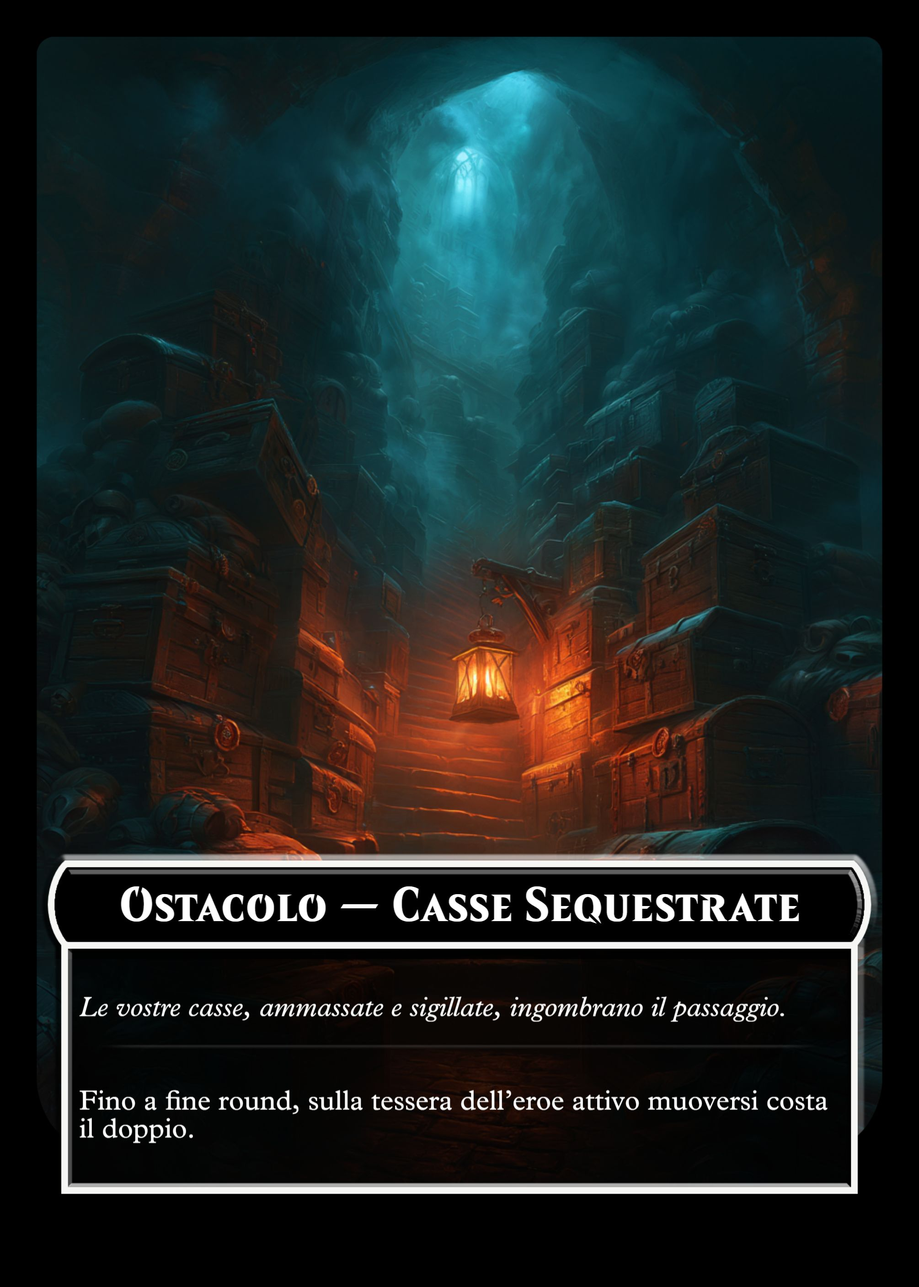
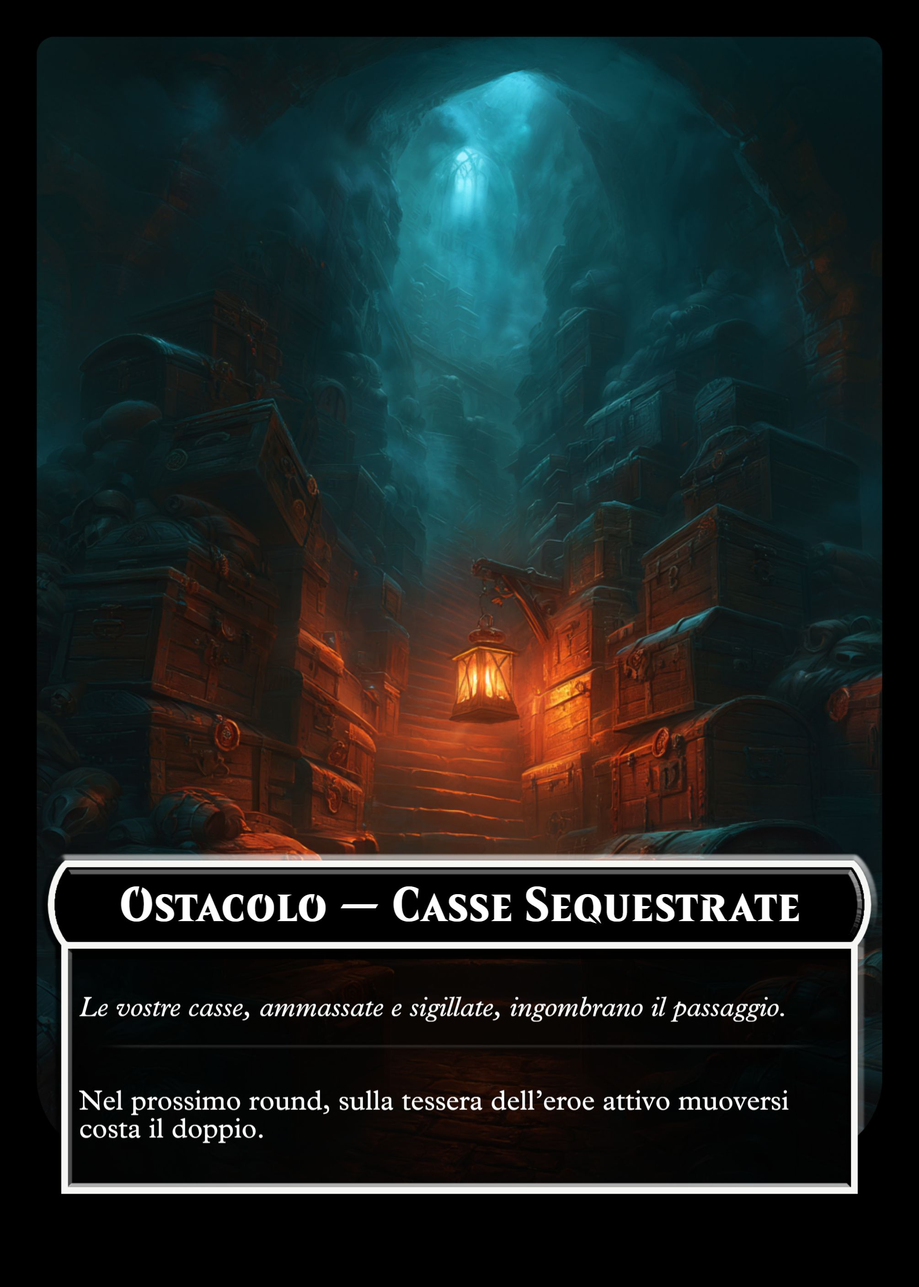
fix: le carte Ostacolo valgono davvero — «costa il doppio» e «-1 al Movimento» nel round dopo
La Minaccia si pesca dopo la fase Eroi: «fino a fine round» scadeva prima che
qualcuno si muovesse, e nessun codice leggeva l'effetto. Ora vale per la fase
Eroi del round successivo (testo delle 26 carte e JPG rigenerati).

Claude-Session: https://claude.ai/code/session_01E3wCErKnfp5djVLEH6umwX

Changed region(s): [[0.0925, 0.8348, 0.8945, 0.8966]]

diff --git a/scripts/cardconjurer/cards-data.js b/scripts/cardconjurer/cards-data.js
@@ -188,10 +188,10 @@ const MINACCE = [
     effect: 'Ruggero è vivo. Rivelate una tessera coperta adiacente a quella di un eroe (la scelgono i giocatori).' },
   { art: 'artworks/Cera che cola.png', title: 'Cera che Cola', tipo: 'Ostacolo',
     flavor: 'Dalle travi piove cera bollente, filo dopo filo.',
-    effect: 'Fino a fine round, sulla tessera dell’eroe attivo muoversi costa il doppio.' },
+    effect: 'Nel prossimo round, sulla tessera dell’eroe attivo muoversi costa il doppio.' },
   { art: 'artworks/Corrente gelida.png', title: 'Corrente Gelida', tipo: 'Ostacolo',
     flavor: 'Una corrente d’acqua nera risale i condotti e vi entra nelle ossa.',
-    effect: 'Fino a fine round ogni eroe ha -1 al Movimento (minimo 1).' },
+    effect: 'Nel prossimo round ogni eroe ha -1 al Movimento (minimo 1).' },
   { art: 'artworks/Sussurri.png', title: 'Sussurri', tipo: 'Insidia',
     flavor: 'Qualcuno pronuncia il vostro nome. Con la vostra voce.',
     effect: 'L’eroe con meno NERVI (a pari merito: sceglie il gruppo) prova NERVI (Media): se fallisce subisce 1 danno dal terrore.' },
@@ -642,7 +642,7 @@ const EP2_MINACCE = [
     effect: 'Rivelate una tessera coperta adiacente a quella di un eroe (la scelgono i giocatori).' },
   { art: 'artworks/Scorie che franano.png', title: 'Scorie che Franano', tipo: 'Ostacolo',
     flavor: 'La collina nera si muove. Meglio non esserci sotto.',
-    effect: 'Fino a fine round, sulla tessera dell’eroe attivo muoversi costa il doppio.' },
+    effect: 'Nel prossimo round, sulla tessera dell’eroe attivo muoversi costa il doppio.' },
   { art: 'artworks/Il ronzio nei denti.png', title: 'Il Ronzio nei Denti', tipo: 'Insidia',
     flavor: 'Non lo sentite con le orecchie. Lo sentite con le otturazioni.',
     effect: 'L’eroe con meno NERVI (a pari merito: sceglie il gruppo) prova NERVI (Media): se fallisce subisce 1 danno dal dolore.' },
@@ -889,7 +889,7 @@ const EP3_MINACCE = [
     effect: 'Rivelate una tessera coperta adiacente a quella di un eroe (la scelgono i giocatori).' },
   { art: 'artworks/L’acqua sale.png', title: 'L’Acqua Sale', tipo: 'Ostacolo',
     flavor: 'Nessuna pioggia, nessuna chiusa. Eppure sale — come un respiro preso.',
-    effect: 'Fino a fine round, sulla tessera dell’eroe attivo muoversi costa il doppio.' },
+    effect: 'Nel prossimo round, sulla tessera dell’eroe attivo muoversi costa il doppio.' },
   { art: 'artworks/Il canto nelle orecchie.png', title: 'Il Canto nelle Orecchie', tipo: 'Insidia',
     flavor: 'La melodia vi entra da un orecchio. Non esce dall’altro.',
     effect: 'L’eroe con meno NERVI (a pari merito: sceglie il gruppo) prova NERVI (Media): se fallisce subisce 1 danno dal dolore.' },
@@ -1130,7 +1130,7 @@ const EP4_MINACCE = [
     effect: 'Rivelate una tessera coperta adiacente a quella di un eroe (la scelgono i giocatori).' },
   { art: 'artworks/Le funi calate.png', title: 'Le Funi Calate', tipo: 'Ostacolo',
     flavor: 'Un cambio di scena cala un bosco di funi dove prima c’era un corridoio.',
-    effect: 'Fino a fine round, sulla tessera dell’eroe attivo muoversi costa il doppio.' },
+    effect: 'Nel prossimo round, sulla tessera dell’eroe attivo muoversi costa il doppio.' },
   { art: 'artworks/L’acuto.png', title: 'L’Acuto', tipo: 'Insidia',
     flavor: 'Un acuto di prova trafigge le assi. I pannelli lo bevono. Voi no.',
     effect: 'L’eroe con meno NERVI (a pari merito: sceglie il gruppo) prova NERVI (Media): se fallisce subisce 1 danno dal dolore.' },
@@ -1368,7 +1368,7 @@ const EP5_MINACCE = [
     effect: 'Rivelate una tessera coperta adiacente a quella di un eroe (la scelgono i giocatori).' },
   { art: 'artworks/Le impalcature.png', title: 'Le Impalcature', tipo: 'Ostacolo',
     flavor: 'Il cantiere invade il passaggio: assi, corde, pali. Ordinatissimi. Ovunque.',
-    effect: 'Fino a fine round, sulla tessera dell’eroe attivo muoversi costa il doppio.' },
+    effect: 'Nel prossimo round, sulla tessera dell’eroe attivo muoversi costa il doppio.' },
   { art: 'artworks/La nota bassa.png', title: 'La Nota Bassa', tipo: 'Insidia',
     flavor: 'Sotto la soglia dell’udito, sopra la soglia del cuore. Fedele lo sapeva.',
     effect: 'L’eroe con meno NERVI (a pari merito: sceglie il gruppo) prova NERVI (Media): se fallisce subisce 1 danno.' },
@@ -1605,7 +1605,7 @@ const EP6_MINACCE = [
     effect: 'Rivelate una tessera coperta adiacente a quella di un eroe (la scelgono i giocatori).' },
   { art: 'artworks/L’acqua sale.png', title: 'L’Acqua alle Ginocchia', tipo: 'Ostacolo',
     flavor: 'La sizigia reclama le gallerie basse. Si cammina come nei sogni cattivi.',
-    effect: 'Fino a fine round, sulla tessera dell’eroe attivo muoversi costa il doppio.' },
+    effect: 'Nel prossimo round, sulla tessera dell’eroe attivo muoversi costa il doppio.' },
   { art: 'artworks/Il canto nelle orecchie.png', title: 'Il Richiamo', tipo: 'Insidia',
     flavor: 'Il coro vi conosce per nome, adesso. E chiama chi è più avanti degli altri.',
     effect: 'L’eroe più avanzato prova NERVI (Media): se fallisce, 1 danno.' },
@@ -1840,7 +1840,7 @@ const EP7_MINACCE = [
     effect: 'Rivelate una tessera coperta adiacente a quella di un eroe (la scelgono i giocatori).' },
   { art: 'artworks/I sacchi franati.png', title: 'I Sacchi Franati', tipo: 'Ostacolo',
     flavor: 'Una pila cede — piano, senza fragore: la calce inghiotte anche il proprio crollo.',
-    effect: 'Fino a fine round, sulla tessera dell’eroe attivo muoversi costa il doppio.' },
+    effect: 'Nel prossimo round, sulla tessera dell’eroe attivo muoversi costa il doppio.' },
   { art: 'artworks/Il piombo dal buio.png', title: 'Il Piombo dal Buio', tipo: 'Danno',
     flavor: 'Un filo a piombo lasciato cadere da tre piani non fa quasi rumore. Quasi.',
     effect: 'L’eroe più avanzato subisce 1 danno (nessuna prova: il buio ha mirato bene).' },
@@ -2074,7 +2074,7 @@ const EP8_MINACCE = [
     effect: 'Rivelate una tessera coperta adiacente a quella di un eroe (la scelgono i giocatori).' },
   { art: 'artworks/Le casse rovesciate.png', title: 'Le Casse Rovesciate', tipo: 'Ostacolo',
     flavor: 'Una pila cede senza fragore: il carbone attutisce anche i crolli.',
-    effect: 'Fino a fine round, sulla tessera dell’eroe attivo muoversi costa il doppio.' },
+    effect: 'Nel prossimo round, sulla tessera dell’eroe attivo muoversi costa il doppio.' },
 ].map((m) => ({
   art: m.art,
   title: `${m.tipo} — ${m.title}`,
@@ -2297,7 +2297,7 @@ const EP9_MINACCE = [
     effect: 'Rivelate una tessera coperta adiacente a quella di un eroe (la scelgono i giocatori).' },
   { art: 'artworks/Il ponte levato.png', title: 'Il Ponte Levato', tipo: 'Ostacolo',
     flavor: 'Qualcuno ha alzato il ponticello di servizio: si passa, ma lenti.',
-    effect: 'Fino a fine round, sulla tessera dell’eroe attivo muoversi costa il doppio.' },
+    effect: 'Nel prossimo round, sulla tessera dell’eroe attivo muoversi costa il doppio.' },
   { art: 'artworks/Il coltello dal buio.png', title: 'La Lama Educata', tipo: 'Insidia',
     flavor: '«Con permesso», dice il buio. E colpisce chi sta più vicino al teste.',
     effect: 'L’eroe adiacente a Riva (a pari merito: sceglie il gruppo) subisce 1 danno — è il prezzo di fare da scudo.' },
@@ -2522,7 +2522,7 @@ const EP10_MINACCE = [
     effect: 'Rivelate una tessera coperta adiacente a quella di un eroe (la scelgono i giocatori).' },
   { art: 'artworks/Calcinacci sul passo.png', title: 'Calcinacci sul Passo', tipo: 'Ostacolo',
     flavor: 'Detriti franati sbarrano il corridoio: si passa, ma piano.',
-    effect: 'Fino a fine round, sulla tessera dell’eroe attivo muoversi costa il doppio.' },
+    effect: 'Nel prossimo round, sulla tessera dell’eroe attivo muoversi costa il doppio.' },
   { art: 'artworks/Un mattone dallalto.png', title: 'Un Mattone dall’Alto', tipo: 'Danno',
     flavor: 'La demolizione fa piovere macerie: un mattone si stacca proprio sopra di voi.',
     effect: 'Un eroe a caso (chi arbitra tira) subisce 1 danno.' },
@@ -2750,7 +2750,7 @@ const EP11_MINACCE = [
     effect: 'Rivelate una tessera coperta adiacente a quella di un eroe (la scelgono i giocatori).' },
   { art: 'artworks/Labbaino sbarrato.png', title: 'L’Abbaino Sbarrato', tipo: 'Ostacolo',
     flavor: 'Una botola incrostata di ghiaccio blocca il passaggio corto: si gira, ma piano.',
-    effect: 'Fino a fine round, sulla tessera dell’eroe attivo muoversi costa il doppio.' },
+    effect: 'Nel prossimo round, sulla tessera dell’eroe attivo muoversi costa il doppio.' },
   { art: 'artworks/Una tegola in testa.png', title: 'Una Tegola in Testa', tipo: 'Danno',
     flavor: 'Il vento stacca un coppo da più in alto e lo scaglia dritto sul gruppo.',
     effect: 'Un eroe a caso (chi arbitra tira) subisce 1 danno.' },
@@ -2978,7 +2978,7 @@ const EP12_MINACCE = [
     effect: 'Rivelate una tessera coperta adiacente a quella di un eroe (la scelgono i giocatori).' },
   { art: 'artworks/La chiatta di traverso.png', title: 'La Chiatta di Traverso', tipo: 'Ostacolo',
     flavor: 'Una chiatta incagliata blocca il canale: si passa, ma piano.',
-    effect: 'Fino a fine round, sulla tessera dell’eroe attivo muoversi costa il doppio.' },
+    effect: 'Nel prossimo round, sulla tessera dell’eroe attivo muoversi costa il doppio.' },
   { art: 'artworks/Un colpo di gaffa.png', title: 'Un Colpo di Gaffa', tipo: 'Danno',
     flavor: 'Un bravo vi allunga una gaffa dal buio, mirando alla testa.',
     effect: 'Un eroe a caso (chi arbitra tira) subisce 1 danno.' },
@@ -3205,7 +3205,7 @@ const EP13_MINACCE = [
     effect: 'Rivelate una tessera coperta adiacente a quella di un eroe (la scelgono i giocatori).' },
   { art: 'artworks/Balle di stracci sul passo.png', title: 'Balle di Stracci sul Passo', tipo: 'Ostacolo',
     flavor: 'Balle di stracci rovesciate ingombrano il corridoio: si passa, ma piano.',
-    effect: 'Fino a fine round, sulla tessera dell’eroe attivo muoversi costa il doppio.' },
+    effect: 'Nel prossimo round, sulla tessera dell’eroe attivo muoversi costa il doppio.' },
   { art: 'artworks/Una trave in fiamme.png', title: 'Una Trave in Fiamme', tipo: 'Danno',
     flavor: 'Una trave accesa si stacca dal soffitto e piomba sul gruppo.',
     effect: 'Un eroe a caso (chi arbitra tira) subisce 1 danno.' },
@@ -3434,7 +3434,7 @@ const EP14_MINACCE = [
     effect: 'Rivelate una tessera coperta adiacente a quella di un eroe (la scelgono i giocatori).' },
   { art: 'artworks/Comignoli sul passo.png', title: 'Comignoli sul Passo', tipo: 'Ostacolo',
     flavor: 'Una selva di comignoli e antenne intralcia il passaggio: si passa, ma piano.',
-    effect: 'Fino a fine round, sulla tessera dell’eroe attivo muoversi costa il doppio.' },
+    effect: 'Nel prossimo round, sulla tessera dell’eroe attivo muoversi costa il doppio.' },
   { art: 'artworks/Il cornicione che cede.png', title: 'Il Cornicione che Cede', tipo: 'Danno',
     flavor: 'Un pezzo di cornicione si stacca sotto il gruppo e porta giù chi c’è sopra.',
     effect: 'Un eroe a caso (chi arbitra tira) subisce 1 danno.' },
@@ -3635,7 +3635,7 @@ const EP15_MINACCE = [
     effect: 'L’eroe più avanzato prova VIGORE (Media): se fallisce, perde il movimento extra questo turno.' },
   { art: 'artworks/La porta che si chiude.png', title: 'La Porta che si Chiude', tipo: 'Insidia',
     flavor: 'Una porta si chiude piano alle vostre spalle: siete dove vogliono loro.',
-    effect: 'Fino a fine round, sulla tessera dell’eroe attivo muoversi costa il doppio.' },
+    effect: 'Nel prossimo round, sulla tessera dell’eroe attivo muoversi costa il doppio.' },
   { art: 'artworks/Il faro della ronda.png', title: 'Il Faro della Ronda', tipo: 'Insidia',
     flavor: 'Un fascio di luce spazza la stanza dal cortile: la ronda della Gendarmeria.',
     effect: 'Aggiungete 1 segnalino Canto (il Sigillo si avvicina). Ogni eroe prova NERVI (Facile) o si acquatta: 1 sola azione al prossimo turno.' },
@@ -3662,7 +3662,7 @@ const EP15_MINACCE = [
     effect: 'Rivelate una tessera coperta adiacente a quella di un eroe (la scelgono i giocatori).' },
   { art: 'artworks/Mobili spostati.png', title: 'Mobili Spostati', tipo: 'Ostacolo',
     flavor: 'La scena è stata rifatta di fresco: i mobili non sono dove ve li aspettate.',
-    effect: 'Fino a fine round, sulla tessera dell’eroe attivo muoversi costa il doppio.' },
+    effect: 'Nel prossimo round, sulla tessera dell’eroe attivo muoversi costa il doppio.' },
   { art: 'artworks/Un colpo al buio.png', title: 'Un Colpo al Buio', tipo: 'Danno',
     flavor: 'Un Apparecchiatore, colto sul fatto, sferra un colpo disperato nel buio.',
     effect: 'Un eroe a caso (chi arbitra tira) subisce 1 danno.' },
@@ -3861,7 +3861,7 @@ const EP16_MINACCE = [
     effect: 'L’eroe attivo prova VIGORE (Media): se fallisce, 1 danno (una scheggia).' },
   { art: 'artworks/La porta a vetri.png', title: 'La Porta a Vetri', tipo: 'Insidia',
     flavor: 'Una porta-finestra a vetri: attraversarla di corsa è un rischio.',
-    effect: 'Fino a fine round, sulla tessera dell’eroe attivo muoversi costa il doppio.' },
+    effect: 'Nel prossimo round, sulla tessera dell’eroe attivo muoversi costa il doppio.' },
   { art: 'artworks/Il buio del giardino.png', title: 'Il Buio del Giardino', tipo: 'Insidia',
     flavor: 'Fuori dalle finestre illuminate, il giardino è nero come pece.',
     effect: 'Ogni eroe prova NERVI (Facile): chi fallisce non può documentare né aiutare questo round (cerca la strada).' },
@@ -3888,7 +3888,7 @@ const EP16_MINACCE = [
     effect: 'Rivelate una tessera coperta adiacente a quella di un eroe (la scelgono i giocatori).' },
   { art: 'artworks/Tavoli del banchetto.png', title: 'Tavoli del Banchetto', tipo: 'Ostacolo',
     flavor: 'Tavoli imbanditi per le nozze ingombrano il salone: si passa, ma piano.',
-    effect: 'Fino a fine round, sulla tessera dell’eroe attivo muoversi costa il doppio.' },
+    effect: 'Nel prossimo round, sulla tessera dell’eroe attivo muoversi costa il doppio.' },
   { art: 'artworks/Un candeliere in faccia.png', title: 'Un Candeliere in Faccia', tipo: 'Danno',
     flavor: 'Un complice, disperato, afferra un candeliere e lo scaglia.',
     effect: 'Un eroe a caso (chi arbitra tira) subisce 1 danno.' },
@@ -4091,7 +4091,7 @@ const EP17_MINACCE = [
     effect: 'Ogni eroe prova NERVI (Facile), -1 morale: chi fallisce non può aiutare gli altri questo round.' },
   { art: 'artworks/La porta blindata.png', title: 'La Porta Blindata', tipo: 'Insidia',
     flavor: 'Una porta di ferro sbarra il corridoio delle celle.',
-    effect: 'Fino a fine round, sulla tessera dell’eroe attivo muoversi costa il doppio.' },
+    effect: 'Nel prossimo round, sulla tessera dell’eroe attivo muoversi costa il doppio.' },
   { art: 'artworks/Il corridoio delle celle.png', title: 'Il Corridoio delle Celle', tipo: 'Insidia',
     flavor: 'Grida soffocate dietro le porte: qual è il decano? Quale una trappola?',
     effect: 'L’eroe più avanzato prova NERVI (Media), -1 morale: se fallisce, 1 danno (una trappola).' },
@@ -4121,7 +4121,7 @@ const EP17_MINACCE = [
     effect: 'Rivelate una tessera coperta adiacente a quella di un eroe (la scelgono i giocatori).' },
   { art: 'artworks/Casse di custodia.png', title: 'Casse di Custodia', tipo: 'Ostacolo',
     flavor: 'Casse di documenti «in custodia» ingombrano il passaggio: si passa, ma piano.',
-    effect: 'Fino a fine round, sulla tessera dell’eroe attivo muoversi costa il doppio.' },
+    effect: 'Nel prossimo round, sulla tessera dell’eroe attivo muoversi costa il doppio.' },
   { art: 'artworks/Un colpo dalla Guardia.png', title: 'Un Colpo dalla Guardia', tipo: 'Danno',
     flavor: 'Un uomo di fiducia del Notaio colpisce con la freddezza di chi archivia.',
     effect: 'Un eroe a caso (chi arbitra tira) subisce 1 danno.' },
@@ -4317,7 +4317,7 @@ const EP18_MINACCE = [
     effect: 'L’eroe attivo prova NERVI (Media): se fallisce, 1 sola azione al prossimo turno (perde l’orientamento nel buio).' },
   { art: 'artworks/La porta che si chiude.png', title: 'La Porta che si Chiude', tipo: 'Insidia',
     flavor: 'Una porta si serra da sola davanti a voi: il Palazzo obbedisce al suo padrone.',
-    effect: 'Fino a fine round, sulla tessera dell’eroe attivo muoversi costa il doppio.' },
+    effect: 'Nel prossimo round, sulla tessera dell’eroe attivo muoversi costa il doppio.' },
   { art: 'artworks/Il passaggio che non c’è più.png', title: 'Il Passaggio che Non C’è Più', tipo: 'Insidia',
     flavor: 'La scorciatoia che credevate di conoscere è murata, o non è mai esistita.',
     effect: 'L’eroe più avanzato prova NERVI (Media): se fallisce, torna indietro di una tessera (si è perso).' },
@@ -4350,7 +4350,7 @@ const EP18_MINACCE = [
     effect: 'Rivelate una tessera coperta adiacente a quella di un eroe (la scelgono i giocatori).' },
   { art: 'artworks/Mobili rovesciati.png', title: 'Mobili Rovesciati', tipo: 'Ostacolo',
     flavor: 'Nella fuga, mobili rovesciati ingombrano il corridoio: si passa, ma piano.',
-    effect: 'Fino a fine round, sulla tessera dell’eroe attivo muoversi costa il doppio.' },
+    effect: 'Nel prossimo round, sulla tessera dell’eroe attivo muoversi costa il doppio.' },
   { art: 'artworks/Un manganello nel buio.png', title: 'Un Manganello nel Buio', tipo: 'Danno',
     flavor: 'Un gendarme, convinto di fare il suo dovere, mena un colpo al buio.',
     effect: 'Un eroe a caso (chi arbitra tira) subisce 1 danno.' },
@@ -4546,7 +4546,7 @@ const EP19_MINACCE = [
     effect: 'L’eroe più avanzato prova VIGORE (Media): se fallisce, 1 danno (sepolto di carte).' },
   { art: 'artworks/La porta a tempo.png', title: 'La Porta a Tempo', tipo: 'Insidia',
     flavor: 'Una porta di sicurezza si chiude con un ticchettio: pochi secondi.',
-    effect: 'Fino a fine round, sulla tessera dell’eroe attivo muoversi costa il doppio.' },
+    effect: 'Nel prossimo round, sulla tessera dell’eroe attivo muoversi costa il doppio.' },
   { art: 'artworks/Il faldone sbagliato.png', title: 'Il Faldone Sbagliato', tipo: 'Insidia',
     flavor: 'Migliaia di faldoni identici: qual è il Fascicolo del 1741?',
     effect: 'L’eroe attivo prova NERVI (Media): se fallisce, 1 sola azione al prossimo turno (perde tempo tra le carte).' },
@@ -4579,7 +4579,7 @@ const EP19_MINACCE = [
     effect: 'Rivelate una tessera coperta adiacente a quella di un eroe (la scelgono i giocatori).' },
   { art: 'artworks/Casse sequestrate.png', title: 'Casse Sequestrate', tipo: 'Ostacolo',
     flavor: 'Le vostre casse, ammassate e sigillate, ingombrano il passaggio.',
-    effect: 'Fino a fine round, sulla tessera dell’eroe attivo muoversi costa il doppio.' },
+    effect: 'Nel prossimo round, sulla tessera dell’eroe attivo muoversi costa il doppio.' },
   { art: 'artworks/Un colpo di manganello.png', title: 'Un Colpo di Manganello', tipo: 'Danno',
     flavor: 'Un gendarme, convinto di fare il suo dovere, mena un colpo.',
     effect: 'Un eroe a caso (chi arbitra tira) subisce 1 danno.' },
@@ -4805,7 +4805,7 @@ const EP20_MINACCE = [
     effect: 'Il controcanto avanza di 1 riga in più questo round (la città canta con voi). Serve la Mappa Acustica.' },
   { art: 'artworks/Detriti nella corrente.png', title: 'Detriti nella Corrente', tipo: 'Ostacolo',
     flavor: 'Relitti e ossa trascinati dalla marea ingombrano il passaggio.',
-    effect: 'Fino a fine round, sulla tessera dell’eroe attivo muoversi costa il doppio.' },
+    effect: 'Nel prossimo round, sulla tessera dell’eroe attivo muoversi costa il doppio.' },
   { art: 'artworks/La pietra che crolla.png', title: 'La Pietra che Crolla', tipo: 'Danno',
     flavor: 'Un blocco di volta cede al tremito del dio e piomba giù.',
     effect: 'Un eroe a caso (chi arbitra tira) subisce 1 danno.' },

diff --git a/webapp/public/motore/stat.js b/webapp/public/motore/stat.js
@@ -64,9 +64,27 @@ export const nemStat = (g, nome) => {
 // l'esplorazione delle caselle, la plancia dell'arbitro, il telefono di chi
 // gioca — deve leggerne uno.
 export const movimento = (g, nm) => {
-  const base = nm.includes('NINO') ? 4 : 3;
+  let m = nm.includes('NINO') ? 4 : 3;
   const p = g.sp && g.sp.passo;
-  return (p && p.chi === nm && p.round === g.sp.round) ? base + 3 : base;
+  if (p && p.chi === nm && p.round === g.sp.round) m += 3;
+  if (ostacolo(g).meno1) m = Math.max(1, m - 1);
+  return m;
+};
+
+// OSTACOLO. Le carte Minaccia si pescano dopo la fase Eroi: «fino a fine
+// round» scadeva prima che qualcuno si muovesse. La carta ora vale per il
+// ROUND DOPO (`sp.ostacoli.round`), cioe' per la prossima fase Eroi.
+//   doppio: sulla tessera dove l'eroe attivo inizia il movimento ogni passo
+//           costa 2 (anche quello che la lascia);
+//   meno1:  -1 al Movimento di tutti (minimo 1).
+export const ostacolo = (g) => {
+  const o = g.sp && g.sp.ostacoli;
+  return (o && o.round === g.sp.round) ? o : {};
+};
+export const costoPasso = (g, nm) => {
+  if (!ostacolo(g).doppio) return null;
+  const t = g.sp.eroiPos[nm].t;
+  return (da) => (da.t === t ? 2 : 1);
 };
 
 export function fascia(g, taglia) {
@@ -142,7 +160,7 @@ export function raggEroe(g, nm) {
   const sp = g.sp;
   if (sp.fase !== 'eroi' || azioneSpesa(g, nm, 'muovere') || !azioniRestano(g, nm)) return {};
   const start = sp.eroiPos[nm];
-  const info = esploraMosse(g, start, movimento(g, nm), occupati(g, `E:${nm}`, true, true));  // solo nemici murano (alleati e PNG scortati attraversabili)
+  const info = esploraMosse(g, start, movimento(g, nm), occupati(g, `E:${nm}`, true, true), costoPasso(g, nm));  // solo nemici murano (alleati e PNG scortati attraversabili)
   const tuttiOcc = occupati(g, `E:${nm}`, false);
   const out = {};
   for (const [k, v] of Object.entries(info)) { if (v.dist === 0 || tuttiOcc.has(k)) continue; out[k] = v; }

diff --git a/webapp/public/motore/griglia.js b/webapp/public/motore/griglia.js
@@ -103,7 +103,12 @@ export function viciniGlob(g, n, allowReveal) {
 // BFS a budget: mappa nodeKey -> { node, dist, reveal, prev }. `blocco` = celle
 // muro (nemici/PNG scortati); gli alleati NON bloccano il passaggio ma si passano i
 // loro nodi (l'arrivo libero si filtra dopo). I bersagli reveal sono terminali.
-export function esploraMosse(g, start, budget, blocco) {
+//
+// `costo(da, a)` (facoltativo) da' il prezzo di un passo, 1 se manca: con un
+// prezzo diverso da 1 (Ostacolo: il doppio) la BFS non basta e si passa a
+// Dijkstra; `dist` diventa il costo speso, che e' quel che il budget conta.
+export function esploraMosse(g, start, budget, blocco, costo) {
+  if (costo) return esploraPesata(g, start, budget, blocco, costo);
   const info = { [nk(start)]: { node: start, dist: 0 } }; let q = [start];
   while (q.length) {
     const nx = [];
@@ -117,6 +122,27 @@ export function esploraMosse(g, start, budget, blocco) {
       }
     }
     q = nx;
+  }
+  return info;
+}
+
+function esploraPesata(g, start, budget, blocco, costo) {
+  const info = { [nk(start)]: { node: start, dist: 0 } };
+  const aperti = [start]; const chiusi = new Set();
+  while (aperti.length) {
+    let m = 0;
+    for (let i = 1; i < aperti.length; i++) if (info[nk(aperti[i])].dist < info[nk(aperti[m])].dist) m = i;
+    const n = aperti.splice(m, 1)[0]; const kn = nk(n);
+    if (chiusi.has(kn)) continue;
+    chiusi.add(kn);
+    const d = info[kn].dist;
+    for (const nb of viciniGlob(g, n, true)) {
+      const k = nk(nb.node); if (blocco.has(k)) continue;
+      const nd = d + costo(n, nb.node);
+      if (nd > budget || (info[k] && info[k].dist <= nd)) continue;
+      info[k] = { node: nb.node, dist: nd, reveal: nb.reveal, prev: kn };
+      if (!nb.reveal) aperti.push(nb.node);
+    }
   }
   return info;
 }

diff --git a/webapp/public/js/digitale.js b/webapp/public/js/digitale.js
@@ -996,7 +996,7 @@ function azioniHtml() {
   const rigaMossa = mosseSpese
     ? `▸ <b>${esc(primo(attivo))}</b> ha già usato il movimento (1 per turno): ora può attaccare, cercare o passare.`
     : nMosse
-      ? `▸ Toccate una <b class="verde">casella verde</b> per muovere ${esc(primo(attivo))} (fino a ${movimento(attivo)} caselle; le porte si attraversano a piedi, le caselle <b class="oro">dorate</b> rivelano una stanza nuova).`
+      ? `▸ Toccate una <b class="verde">casella verde</b> per muovere ${esc(primo(attivo))} (fino a ${movimento(attivo)} caselle; le porte si attraversano a piedi, le caselle <b class="oro">dorate</b> rivelano una stanza nuova).${stat.ostacolo(G()).doppio ? ' <b class="ko-txt">Ostacolo: sulla sua tessera ogni passo costa 2.</b>' : ''}${stat.ostacolo(G()).meno1 ? ' <b class="ko-txt">Ostacolo: −1 al Movimento.</b>' : ''}`
       : `▸ Nessuna casella raggiungibile: ${esc(primo(attivo))} <b>non ha dove andare</b> (nemici o arredi tutt’intorno). Può attaccare un nemico adiacente, cercare o passare.`;
   return `
     <p class="nota">Tocca a <b>${esc(primo(attivo))}</b> — ${fatte.length}/${azioniMax(attivo)} azioni${fatte.length ? ' (' + fatte.map((t) => tipiAzione[t]).join(', ') + ')' : ''}${stordito(attivo) ? ' <b class="ko-txt">· stordito (1 azione)</b>' : ''}.</p>

diff --git a/webapp/public/motore/comandi.js b/webapp/public/motore/comandi.js
@@ -234,6 +234,11 @@ function pescaUna(g) {
         // dopo il round 14, misurato sull'Ep.1 — e il finale diventava ingiocabile.
         const cantoMax = sp.canto >= tettoCanto(g.comune, g.ep);
         const eff = carta.rules.split('{divider}').pop();
+        const ost = minaccia.ostacoloDaTesto(eff);
+        if (ost) {
+          sp.ostacoli = { ...(sp.ostacoli && sp.ostacoli.round === sp.round + 1 ? sp.ostacoli : {}), ...ost, round: sp.round + 1 };
+          annunci.push('Effetto dal prossimo round, nella fase Eroi.');
+        }
         const prima = sp.nemici.length;
         if (!cantoMax) {
           minaccia.spawnDaTesto(g, eff, minaccia.tileAffollata(g));

diff --git a/webapp/public/motore/minaccia.js b/webapp/public/motore/minaccia.js
@@ -154,3 +154,12 @@ export function tileAffollata(g) {
   for (const [t, n] of Object.entries(conta)) if (n > bestN) { bestN = n; best = t; }
   return best;
 }
+
+// Il testo di una carta Ostacolo -> l'effetto sul Movimento del round dopo
+// (vedi `ostacolo` in stat.js), o null se la carta non ne ha uno.
+export function ostacoloDaTesto(testo) {
+  const out = {};
+  if (/muoversi costa il doppio/i.test(testo)) out.doppio = true;
+  if (/-1 al Movimento/i.test(testo)) out.meno1 = true;
+  return Object.keys(out).length ? out : null;
+}

diff --git a/src/gen_cards.py b/src/gen_cards.py
@@ -445,8 +445,8 @@ MINACCE = (
      ('IL CANTO CRESCE', 'Aggiungete 1 segnalino Canto. Al terzo: il Custode della Cera si desta e da quel momento ogni Fase Minaccia pesca 1 carta in più (vedi Soluzione). Se è già in gioco: cancellate 1 sua ferita dal Registro e si attiva subito.', 'crescendo', False)] +
     [('PRESAGIO', 'Un brivido corre lungo la schiena. Non accade nulla… per ora.', 'quiete', False)] +
     [('ECO AMICA', 'Ruggero è vivo. Rivelate una tessera coperta adiacente a una già rivelata.', 'favore', False)] +
-    [('CERA CHE COLA', 'Fino a fine round, sulla tessera dell’eroe attivo muoversi costa il doppio.', 'ostacolo', False)] +
-    [('CORRENTE GELIDA', 'Fino all’inizio del vostro prossimo turno ogni eroe ha -1 al Movimento (minimo 1).', 'ostacolo', False)] +
+    [('CERA CHE COLA', 'Nel prossimo round, sulla tessera dell’eroe attivo muoversi costa il doppio.', 'ostacolo', False)] +
+    [('CORRENTE GELIDA', 'Nel prossimo round ogni eroe ha -1 al Movimento (minimo 1).', 'ostacolo', False)] +
     [('SUSSURRI', 'L’eroe con meno NERVI (a pari merito: sceglie il gruppo) prova NERVI (Media): se fallisce subisce 1 danno dal terrore.', 'insidia', False)]
 )
 
